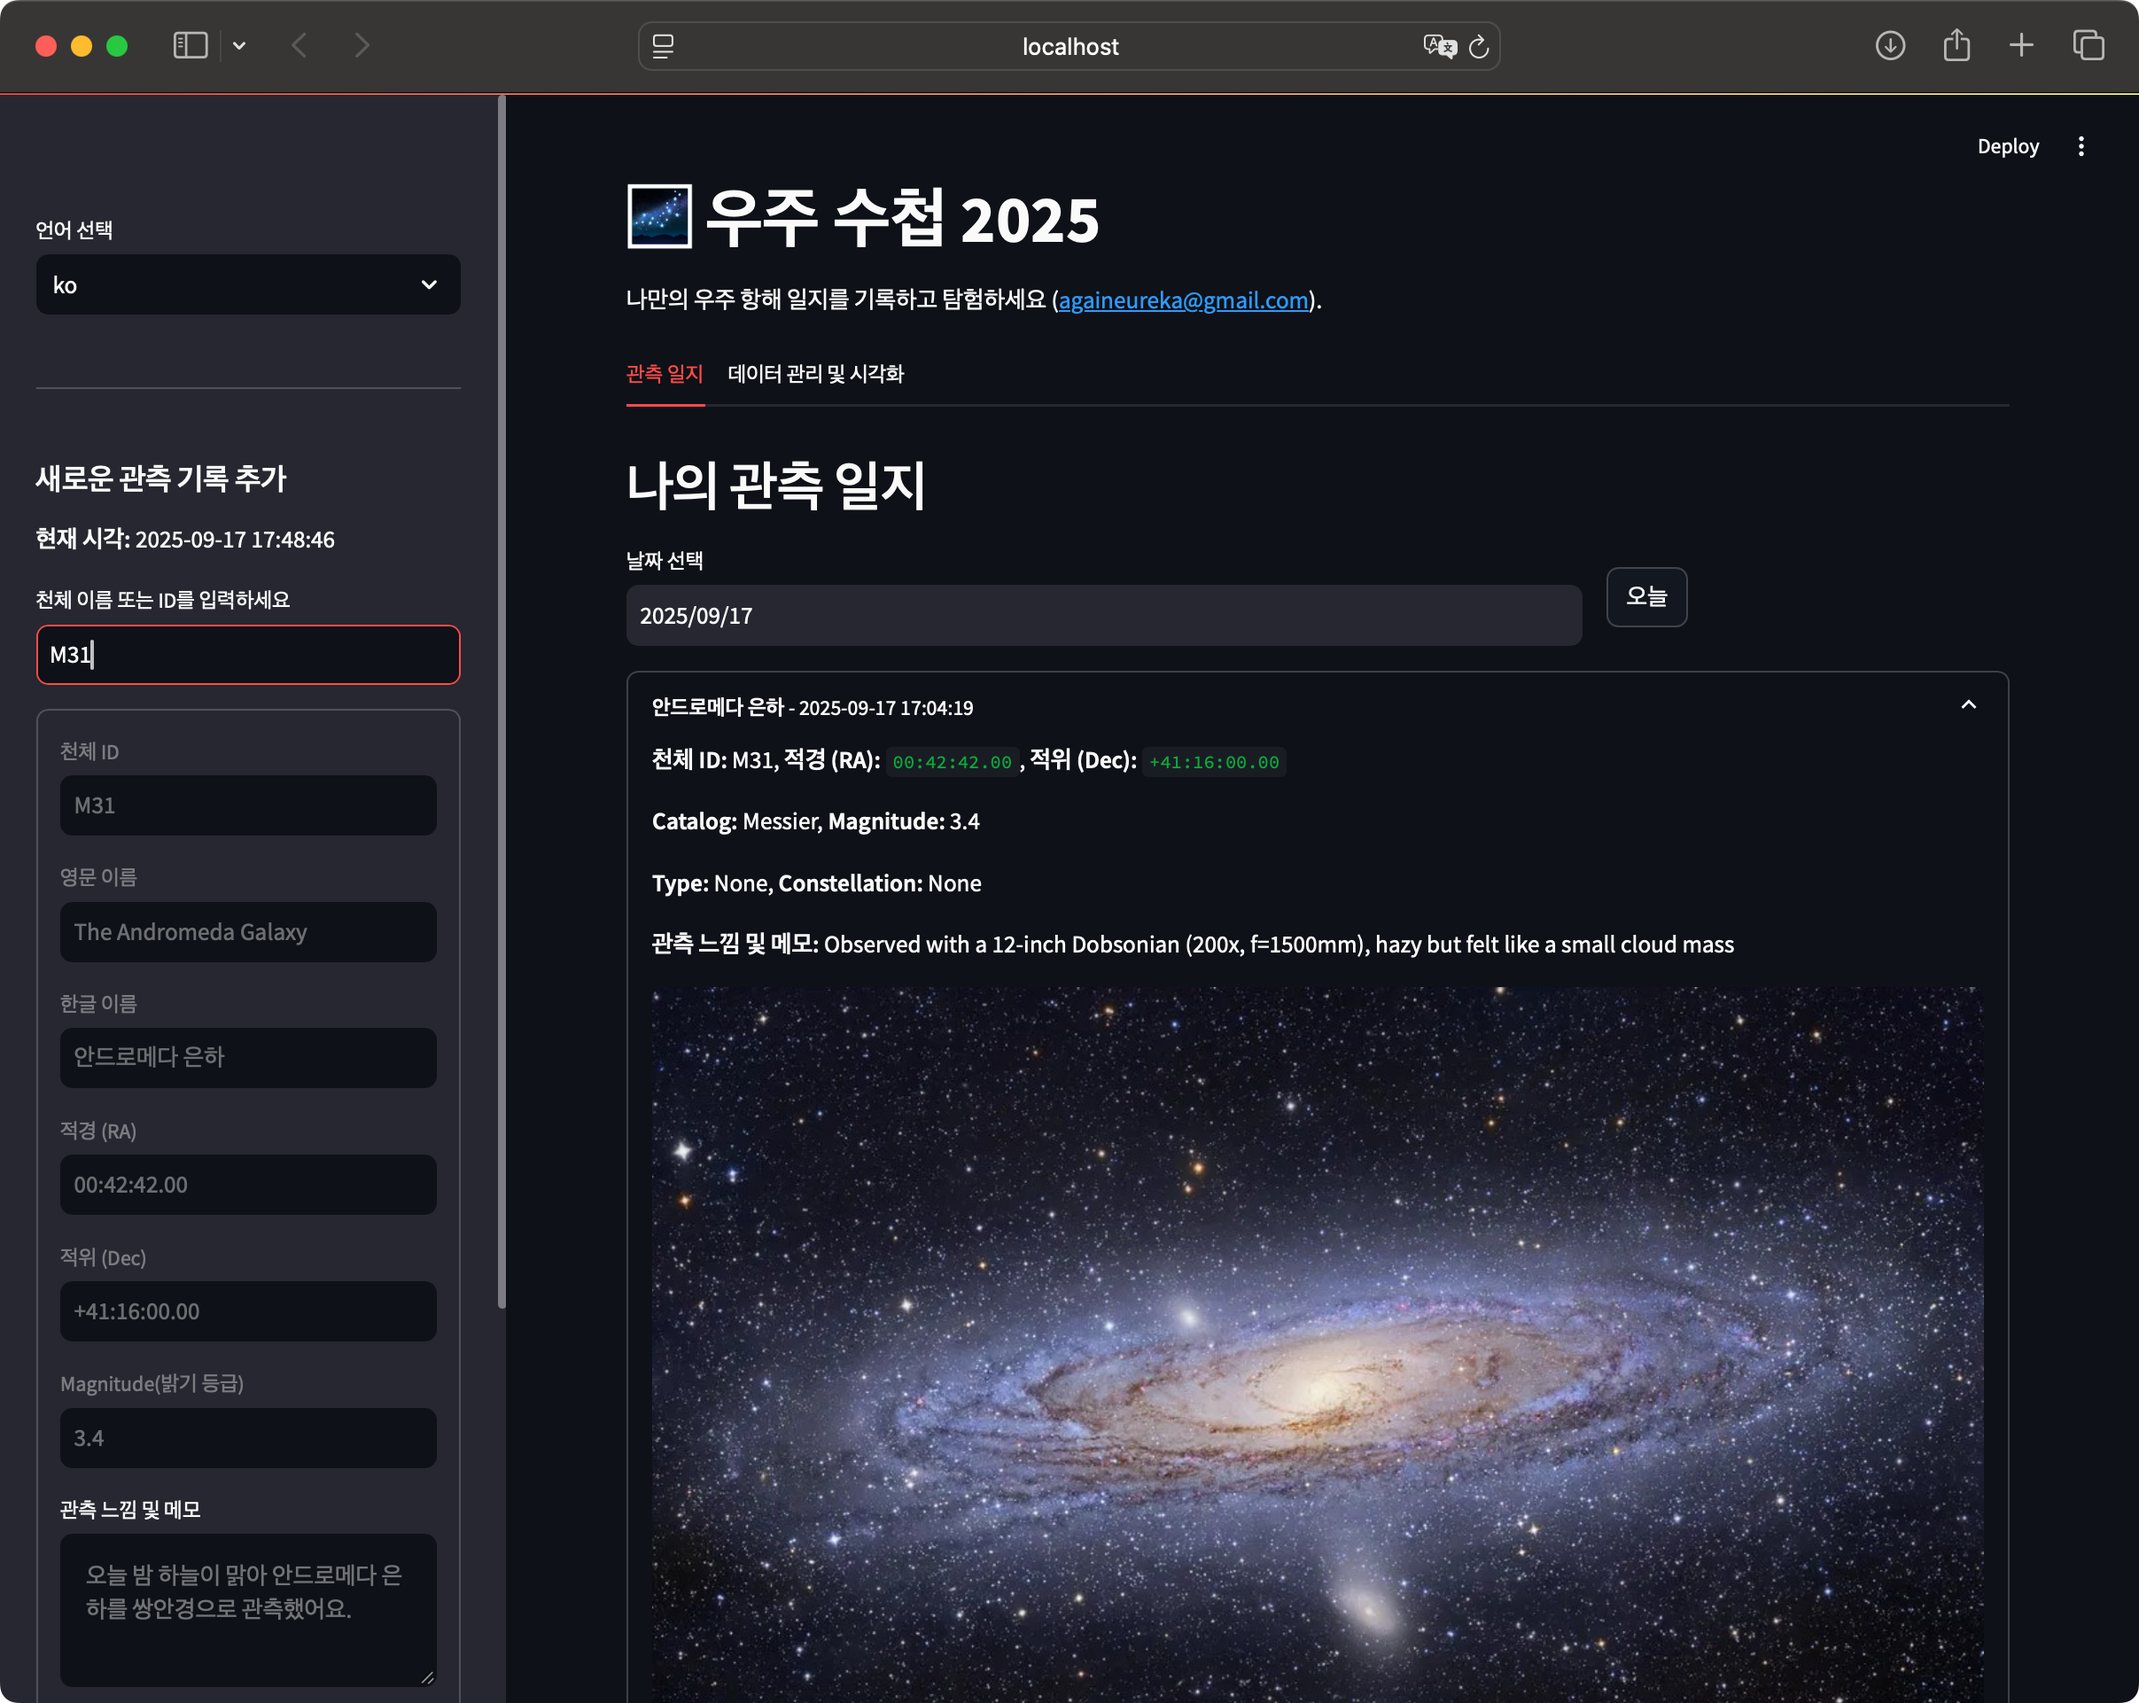
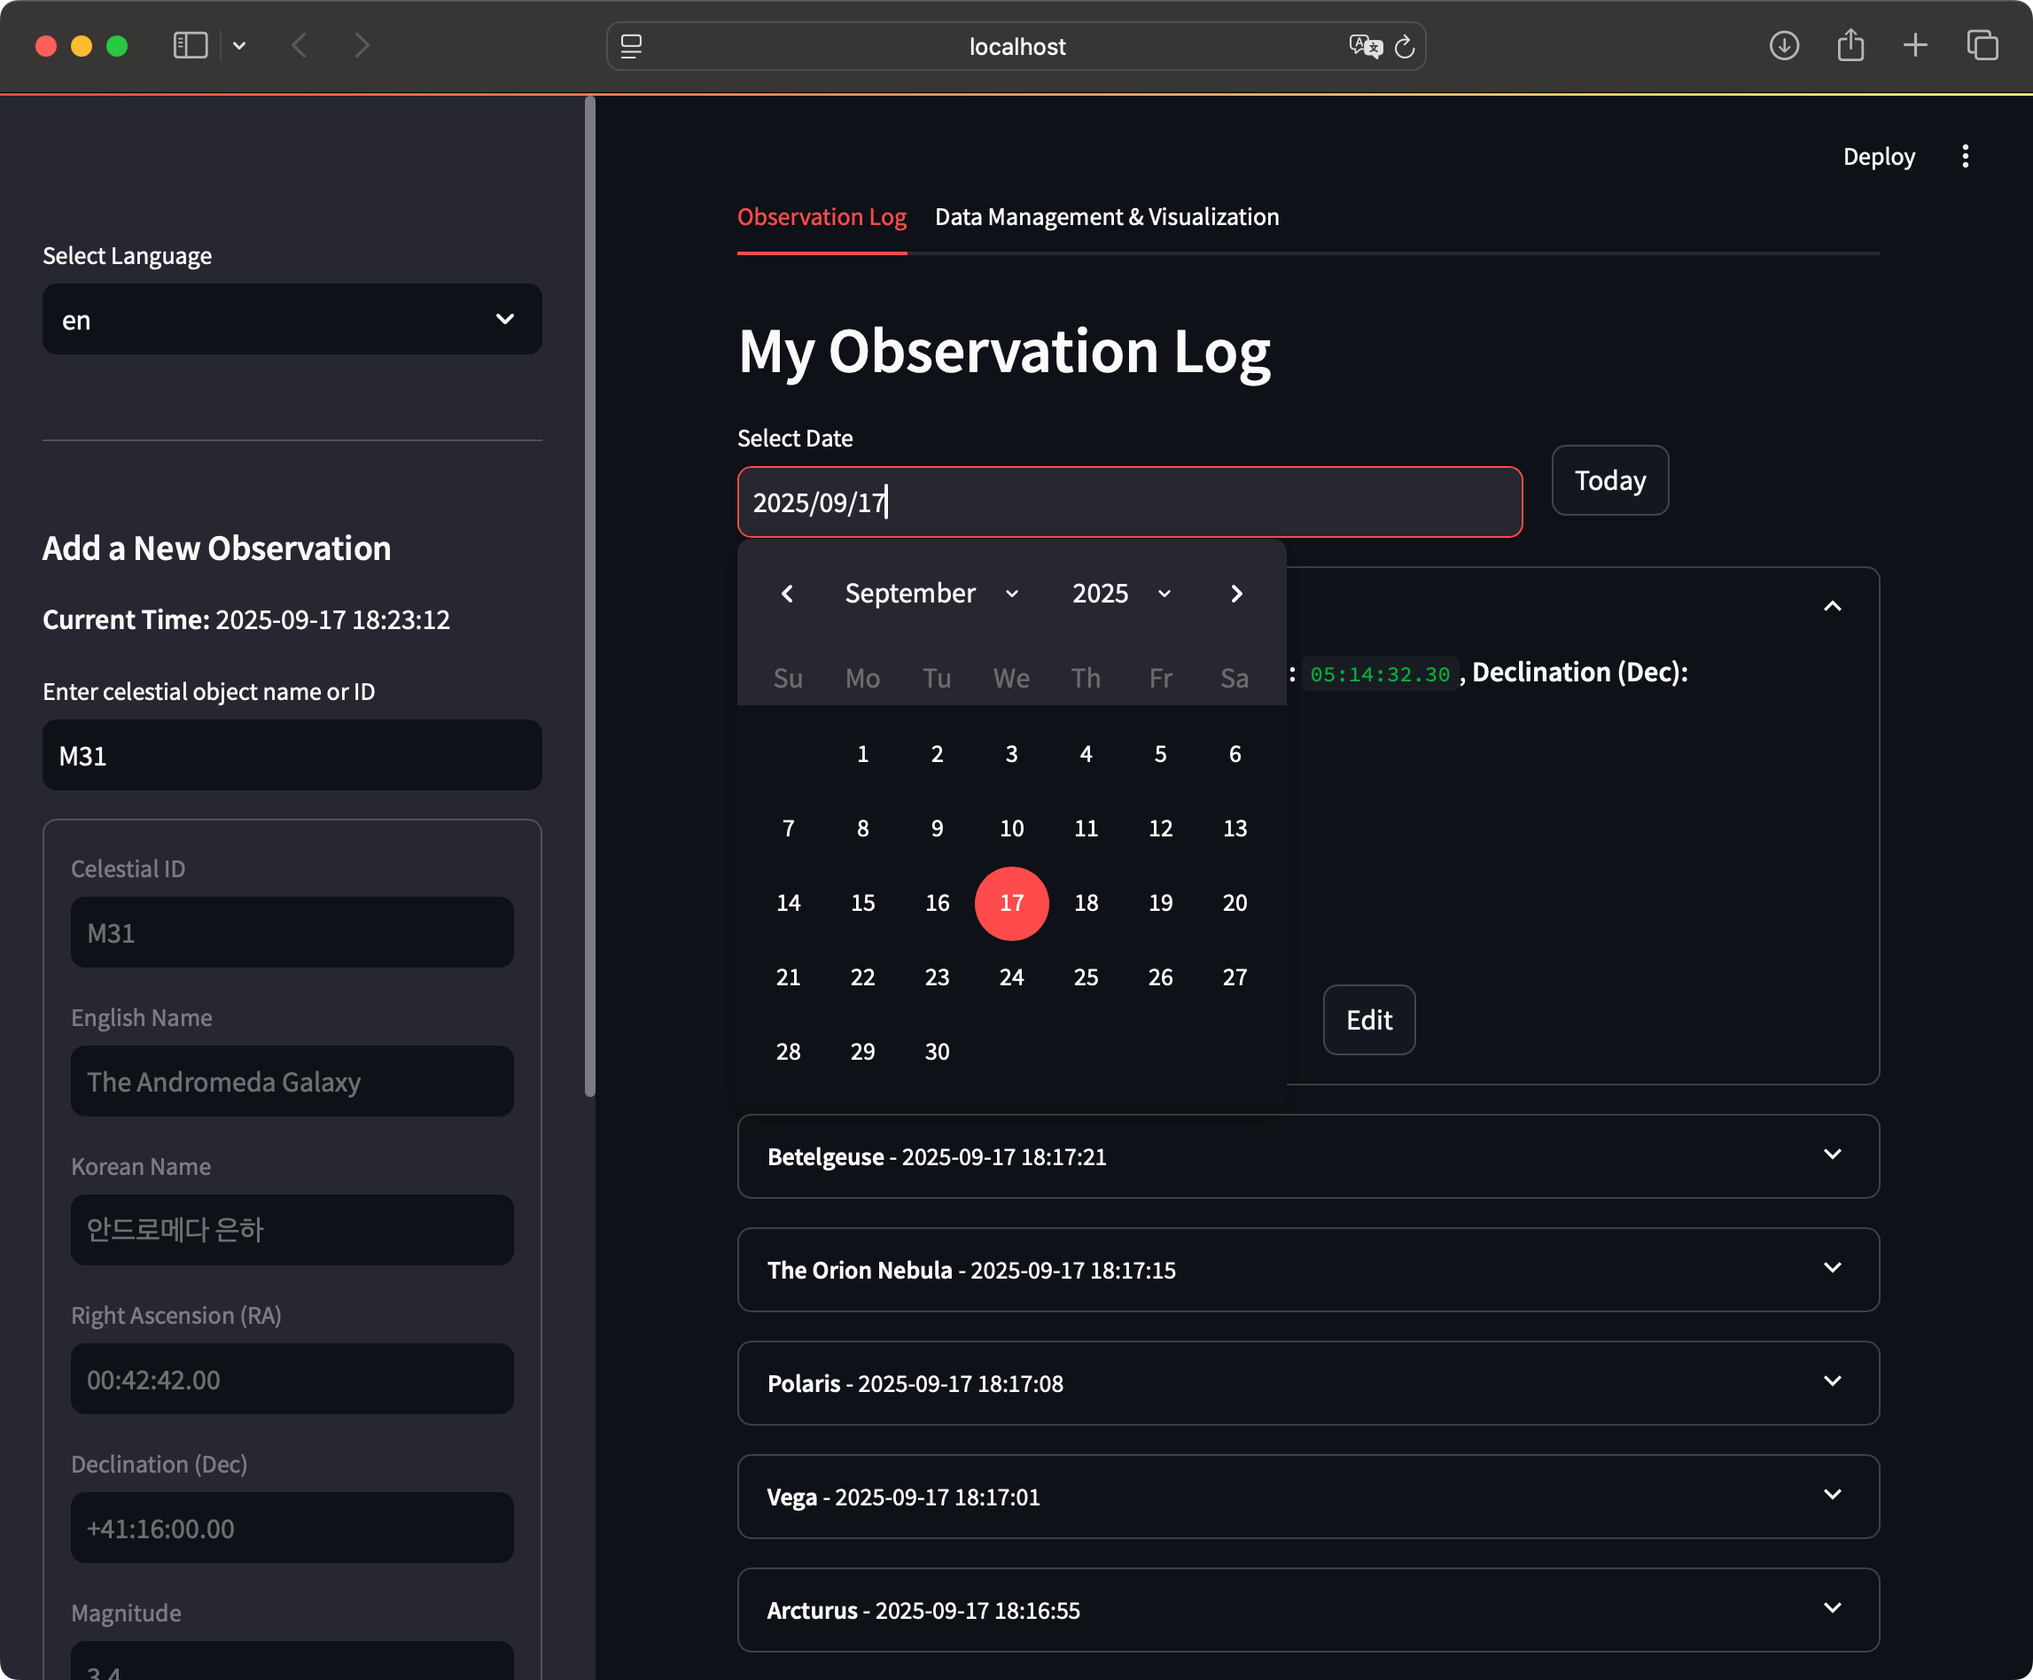
update

diff --git a/app/app.py b/app/app.py
@@ -50,6 +50,7 @@ def init_db():
         CREATE TABLE IF NOT EXISTS observations (
             id INTEGER PRIMARY KEY AUTOINCREMENT,
             celestial_id TEXT,
+            celestial_name_en TEXT,
             celestial_name_kr TEXT,
             catalog TEXT,
             ra TEXT,
@@ -230,11 +231,17 @@ with tab1:
                 conn = sqlite3.connect(DB_NAME)
                 c = conn.cursor()
                 c.execute(
-                    "INSERT INTO observations (celestial_id, celestial_name_kr, catalog, ra, dec, magnitude, type, constellation, notes, image_path, observation_date) VALUES (?, ?, ?, ?, ?, ?, ?, ?, ?, ?, ?)",
+                    "INSERT INTO observations (celestial_id, celestial_name_en, celestial_name_kr, catalog, ra, dec, magnitude, type, constellation, notes, image_path, observation_date) VALUES (?, ?, ?, ?, ?, ?, ?, ?, ?, ?, ?, ?)",
                     (
-                        st.session_state.found_object.get('id'), st.session_state.found_object.get('name_kr'), st.session_state.found_object.get('catalog'),
-                        st.session_state.found_object.get('ra'), st.session_state.found_object.get('dec'), st.session_state.found_object.get('magnitude'),
-                        st.session_state.found_object.get('type'), st.session_state.found_object.get('constellation'),
+                        st.session_state.found_object.get('id'), 
+                        st.session_state.found_object.get('name_en'), 
+                        st.session_state.found_object.get('name_kr'), 
+                        st.session_state.found_object.get('catalog'),
+                        st.session_state.found_object.get('ra'), 
+                        st.session_state.found_object.get('dec'), 
+                        st.session_state.found_object.get('magnitude'),
+                        st.session_state.found_object.get('type'), 
+                        st.session_state.found_object.get('constellation'),
                         notes, image_path, datetime.datetime.now().strftime('%Y-%m-%d %H:%M:%S')
                     )
                 )
@@ -298,13 +305,18 @@ with tab1:
     else:
         for obs in paginated_observations:
             (
-                obs_id, celestial_id, celestial_name_kr, catalog,
+                obs_id, celestial_id, celestial_name_en, celestial_name_kr, catalog,
                 ra, dec, magnitude, celestial_type, constellation,
                 notes, image_path, observation_date
             ) = obs
 
+            if st.session_state.language == 'en':
+                celestial_name = celestial_name_en
+            else:
+                celestial_name = celestial_name_kr
+                
             if st.session_state.editing and st.session_state.editing['id'] == obs_id:
-                with st.expander(f"**{celestial_name_kr}** - {observation_date}", expanded=True):
+                with st.expander(f"**{celestial_name}** - {observation_date}", expanded=True):
                     st.markdown(f"### {lang['editing_record']}")
                     st.markdown(f"**{lang['celestial_id']}:** {celestial_id}, **{lang['ra_label']}:** `{ra}`, **{lang['dec_label']}:** `{dec}`")
                     st.markdown(f"**Catalog:** {catalog}, **Magnitude:** {magnitude}, **Type:** {celestial_type}, **Constellation:** {constellation}")
@@ -323,14 +335,14 @@ with tab1:
                             st.session_state.editing = None
                             st.rerun()
             else:
-                with st.expander(f"**{celestial_name_kr}** - {observation_date}"):
+                with st.expander(f"**{celestial_name}** - {observation_date}"):
                     st.write(f"**{lang['celestial_id']}:** {celestial_id}, **{lang['ra_label']}:** `{ra}`, **{lang['dec_label']}:** `{dec}`")
                     st.write(f"**Catalog:** {catalog}, **Magnitude:** {magnitude}")
                     st.write(f"**Type:** {celestial_type}, **Constellation:** {constellation}")
                     st.write(f"**{lang['notes_label']}:** {notes}")
                     if image_path:
                         try:
-                            st.image(image_path, caption=f"{celestial_name_kr} Image")
+                            st.image(image_path, caption=f"{celestial_name} Image")
                         except FileNotFoundError:
                             st.warning(lang['file_not_found'])
                     
@@ -342,6 +354,7 @@ with tab1:
                         if st.button(lang['edit'], key=f"edit_{obs_id}"):
                             record_data = {
                                 "id": obs_id,
+                                "celestial_name_en": celestial_name_en,
                                 "celestial_name_kr": celestial_name_kr,
                                 "notes": notes,
                                 "image_path": image_path
@@ -367,7 +380,7 @@ with tab2:
     st.download_button(
         label=lang['export_json'],
         data=json_data,
-        file_name="astro_voyager_observations.json",
+        file_name="astro_notebook_observations.json",
         mime="application/json"
     )
 
@@ -375,7 +388,7 @@ with tab2:
     st.download_button(
         label=lang['export_csv'],
         data=csv_data,
-        file_name="astro_voyager_observations.csv",
+        file_name="astro_notebook_observations.csv",
         mime="text/csv"
     )
 
@@ -383,7 +396,7 @@ with tab2:
     st.download_button(
         label=lang['export_html'],
         data=html_data,
-        file_name="astro_voyager_observations.html",
+        file_name="astro_notebook_observations.html",
         mime="text/html"
     )
 
@@ -411,17 +424,18 @@ with tab2:
 
     conn = sqlite3.connect(DB_NAME)
     c = conn.cursor()
-    c.execute("SELECT celestial_name_kr, notes, celestial_id, ra, dec FROM observations")
+    c.execute("SELECT celestial_name_en, celestial_name_kr, notes, celestial_id, ra, dec FROM observations")
     all_observations = c.fetchall()
     conn.close()
 
     viz_data = []
     for obs in all_observations:
-        name_kr, notes, id, ra, dec = obs
+        name_en, name_kr, notes, id, ra, dec = obs
         parsed_ra, parsed_dec = parse_ra_dec(ra, dec)
         if parsed_ra is not None and parsed_dec is not None:
             viz_data.append({
-                "name": name_kr, 
+                "name": name_en,
+                "name_kr": name_kr, 
                 "ra": parsed_ra, 
                 "dec": parsed_dec, 
                 "notes": notes, 

diff --git a/README.md b/README.md
@@ -8,6 +8,9 @@
 
 <img src="doc/01.png" alt="demo page" width="500">
 <img src="doc/02.png" alt="demo page" width="500">
+<img src="doc/03.png" alt="demo page" width="500">
+<img src="doc/04.png" alt="demo page" width="500">
+<img src="doc/05.png" alt="demo page" width="500">
 
 ## Raw source data for search
 
